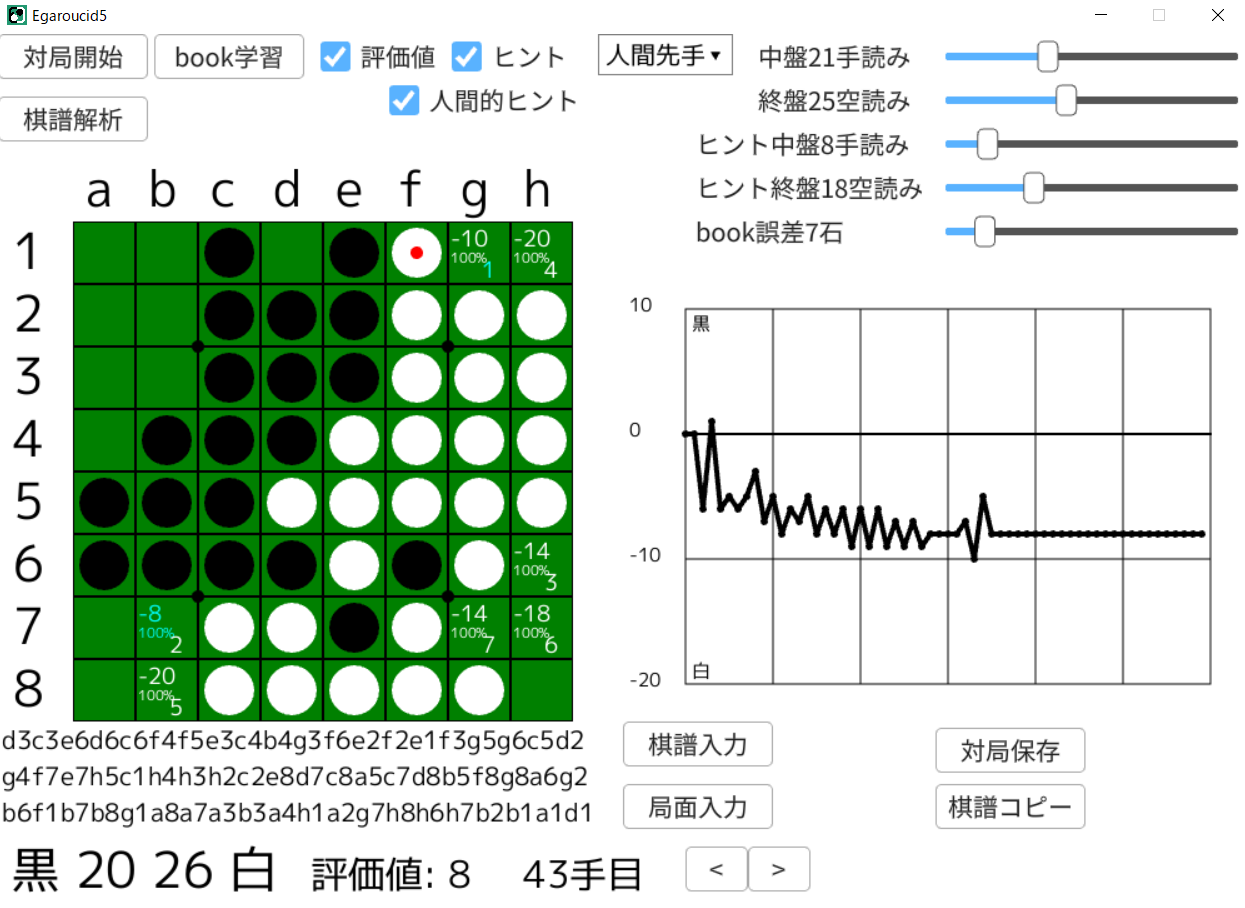
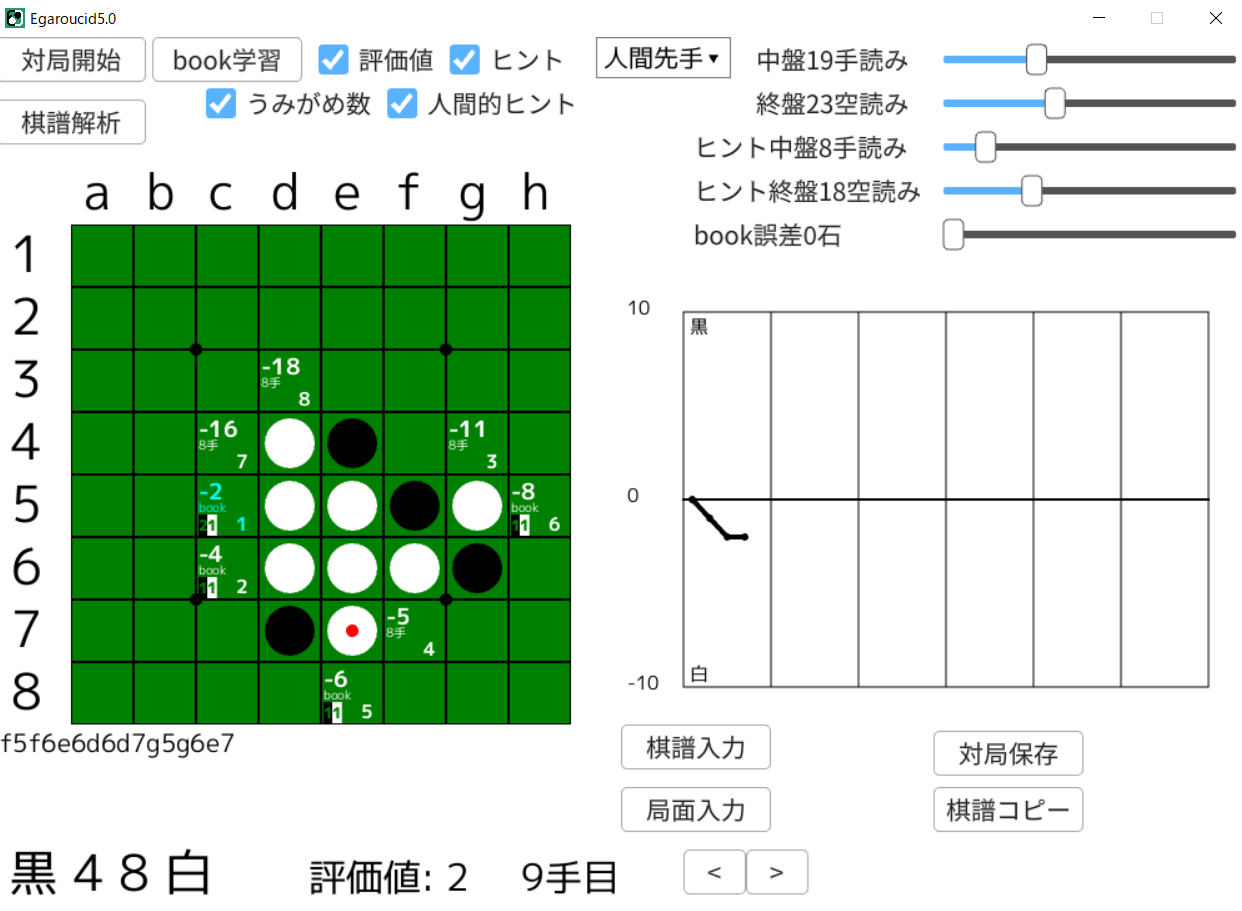
update html

diff --git a/docs/index.html b/docs/index.html
@@ -26,7 +26,9 @@
             <ul>
                 <li>対局</li>
                 <li>対局分析</li>
+                <li>評価値の表示</li>
                 <li>人間的評価の表示</li>
+                <li>うみがめ数の表示</li>
                 <li>各種入出力</li>
                 <li>book自動/手動生成</li>
                 <li>定石の表示</li>
